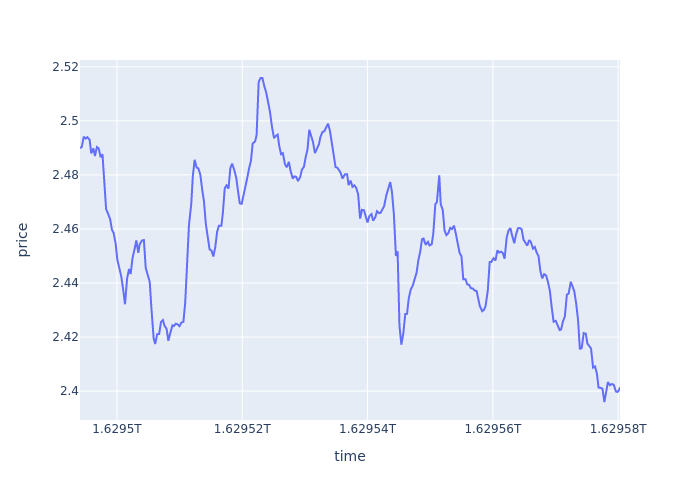
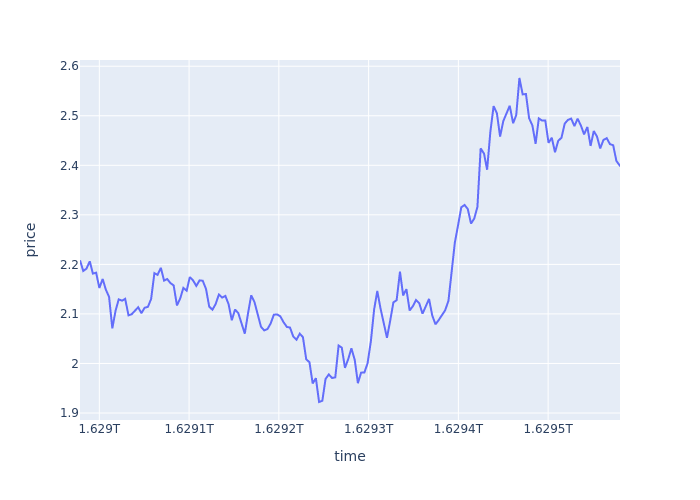
Separating summary commands and adding day range option for graph.

diff --git a/main.py b/main.py
@@ -24,20 +24,26 @@ def message_from_bot(message):
   return True if message.author == bot.user else False
 
 # functions for price, marketcap, and volume dfs
-def get_price_df_day(coin):
+def get_price_df_day(coin, days):
   params = {}
   params["vs_currency"] = "usd"
-  params["days"] = "1"
+  params["days"] = days
   url = 'https://api.coingecko.com/api/v3/coins/{0}/market_chart'.format(coin)
   response = requests.get(url,params=params)
   json_data = json.loads(response.text)
   df = pd.DataFrame(json_data["prices"], columns=['time','price'])
   return df
 
-def save_image(fig):
+def save_graph(fig):
   if not os.path.exists("images"):
     os.mkdir("images")
   fig.write_image(FIGURE_1)
+
+def create_graph(coin, days):
+  df = get_price_df_day(coin, days)
+  # print(df)
+  fig = px.line(df, x='time', y='price')
+  save_graph(fig)
 
 # when the bot is initialized
 @bot.event
@@ -48,14 +54,27 @@ async def on_ready():
 # seems like on_message doesn't play well with commands
 @bot.command()
 async def summary(ctx, coin):
-  df = get_price_df_day(coin)
-  # print(df)
-  fig = px.line(df, x='time', y='price')
-  save_image(fig)
+  create_graph(coin, 1)
   # TODO: get price of coin from last data point, so we don't have to make api call 2 times
   embed = discord.Embed(
     title = coin.upper(),
     description = '$' + str(get_simple_price_usd(coin)),
+    color = discord.Color.blue()
+  )
+  file = discord.File(FIGURE_1, filename="image.png")
+  embed.set_image(url="attachment://image.png")
+  await ctx.send(file=file, embed=embed)
+
+@bot.command()
+async def price(ctx, coin):
+  await ctx.send(get_simple_price_usd(coin))
+
+@bot.command()
+async def graph(ctx, coin, days):
+  create_graph(coin, days)
+  embed = discord.Embed(
+    title = coin.upper(),
+    description = 'Price Chart Over {}'.format(days) +' days.',
     color = discord.Color.blue()
   )
   file = discord.File(FIGURE_1, filename="image.png")
